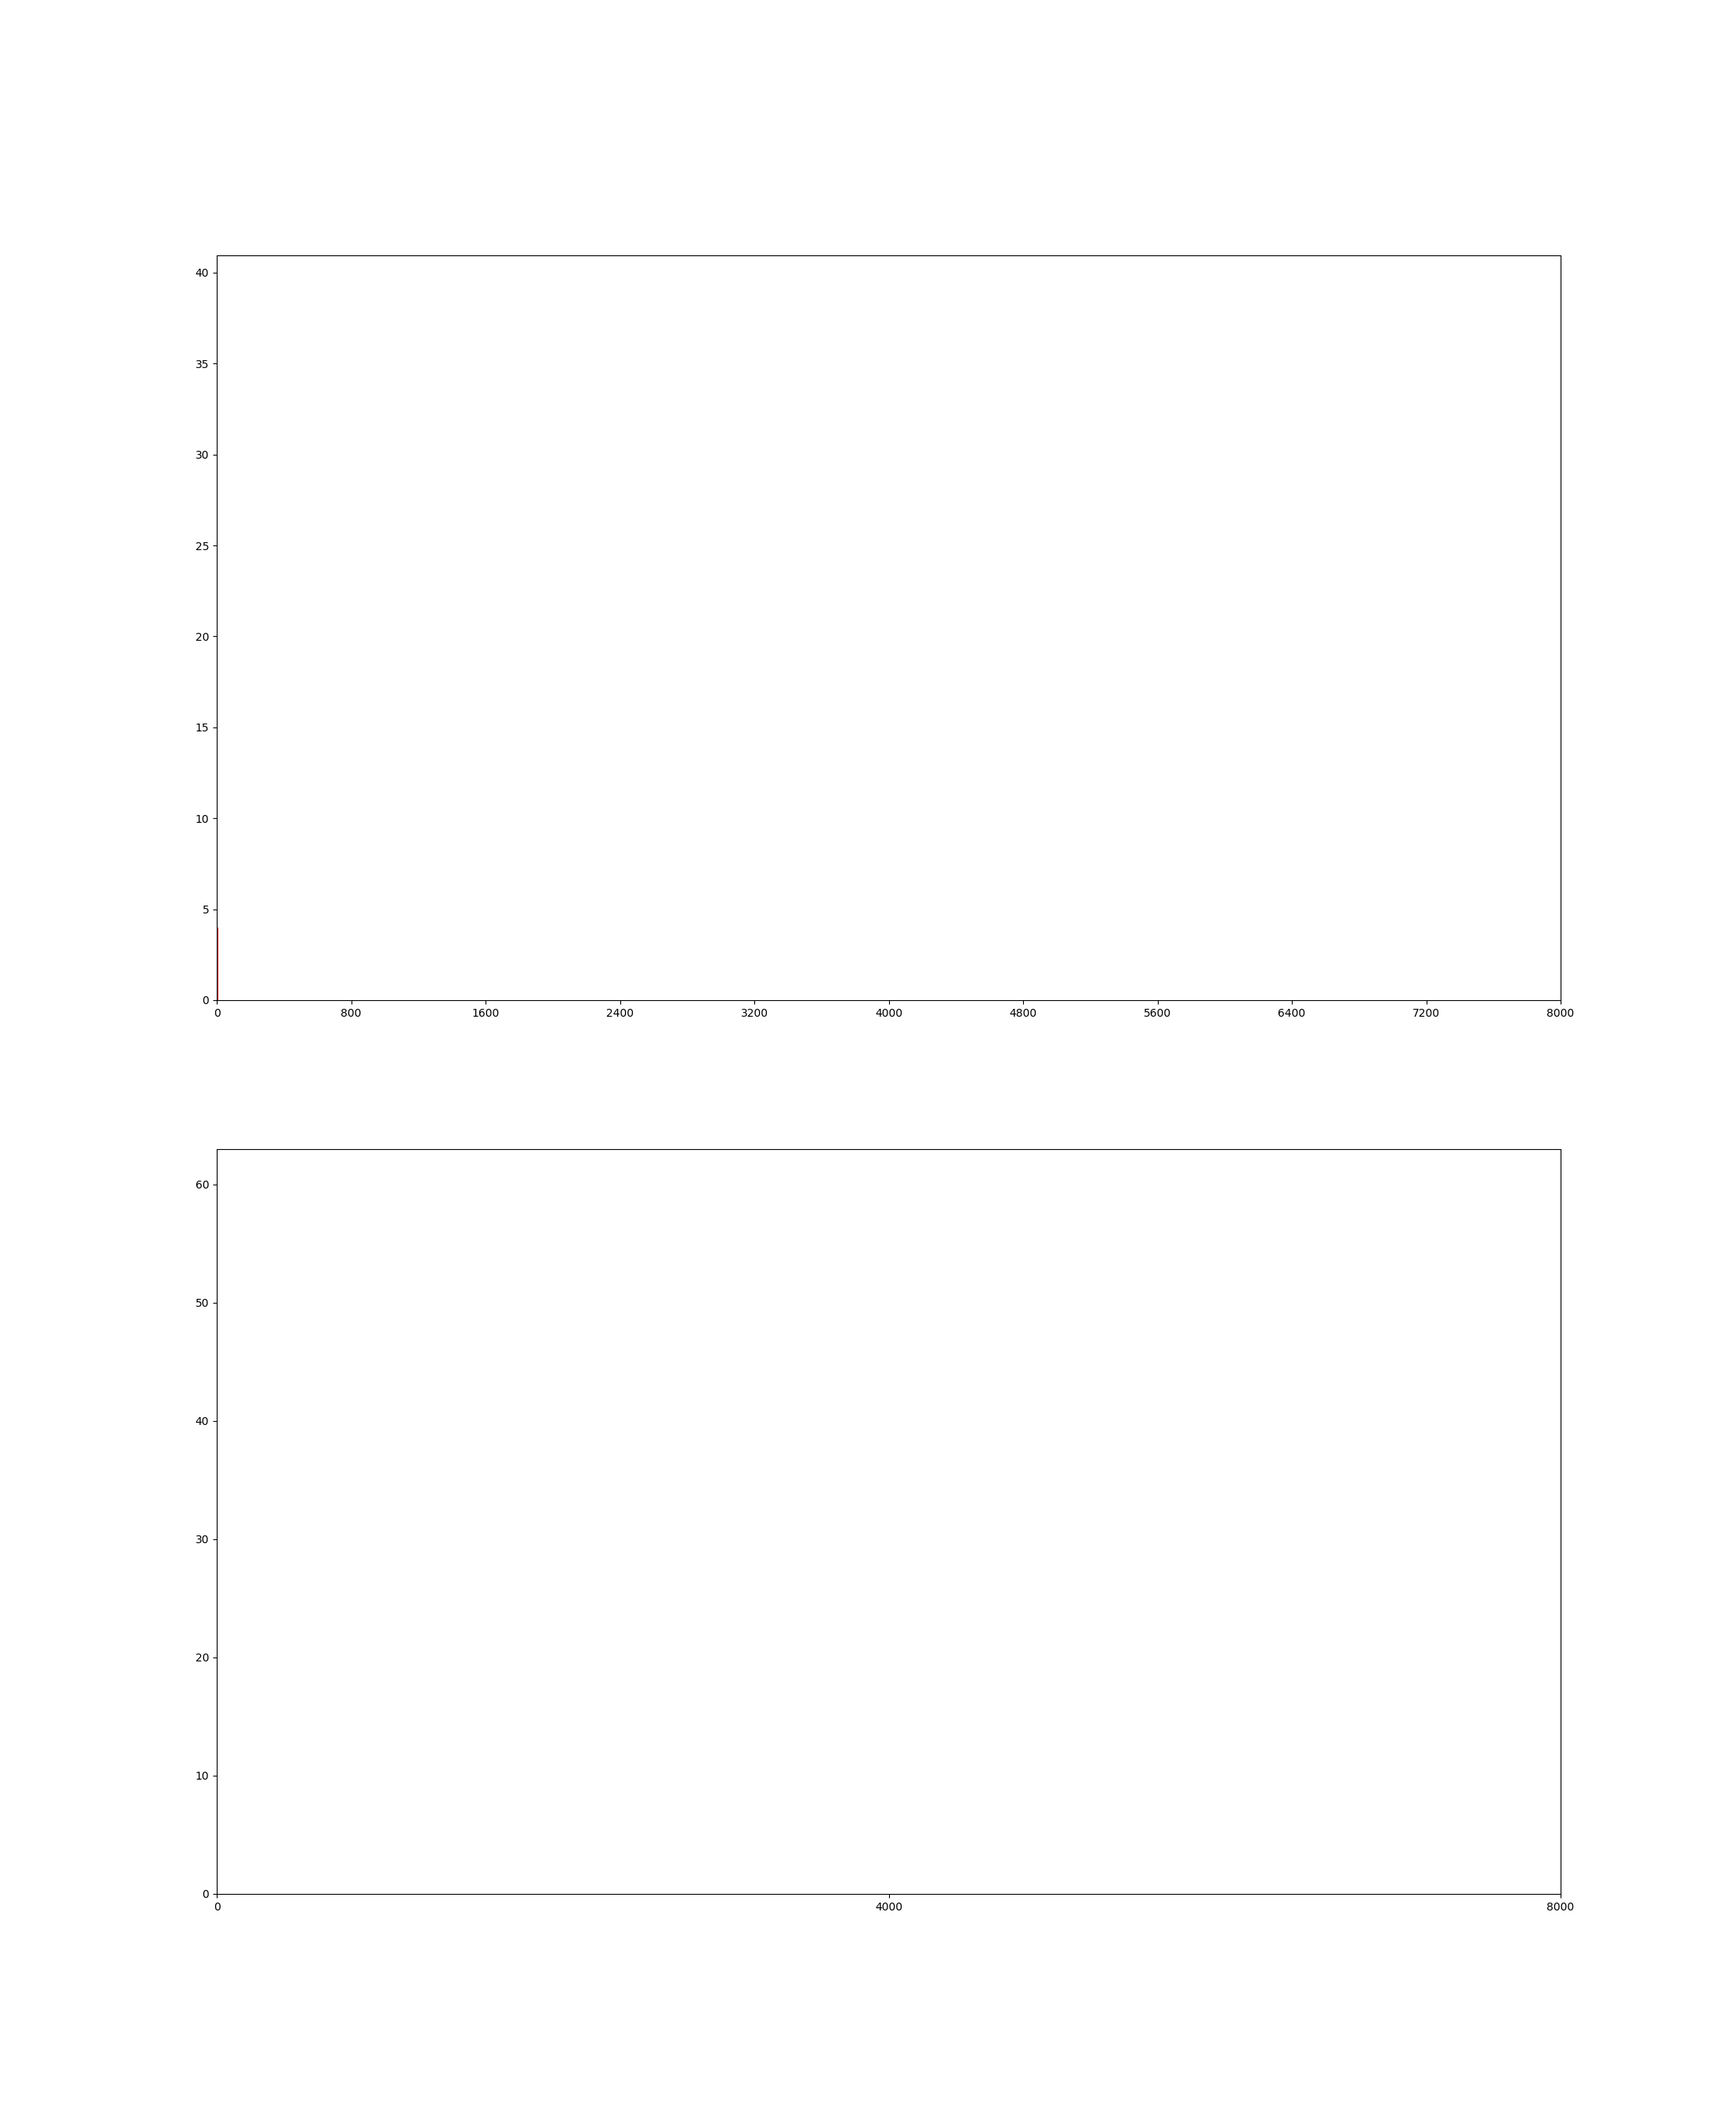
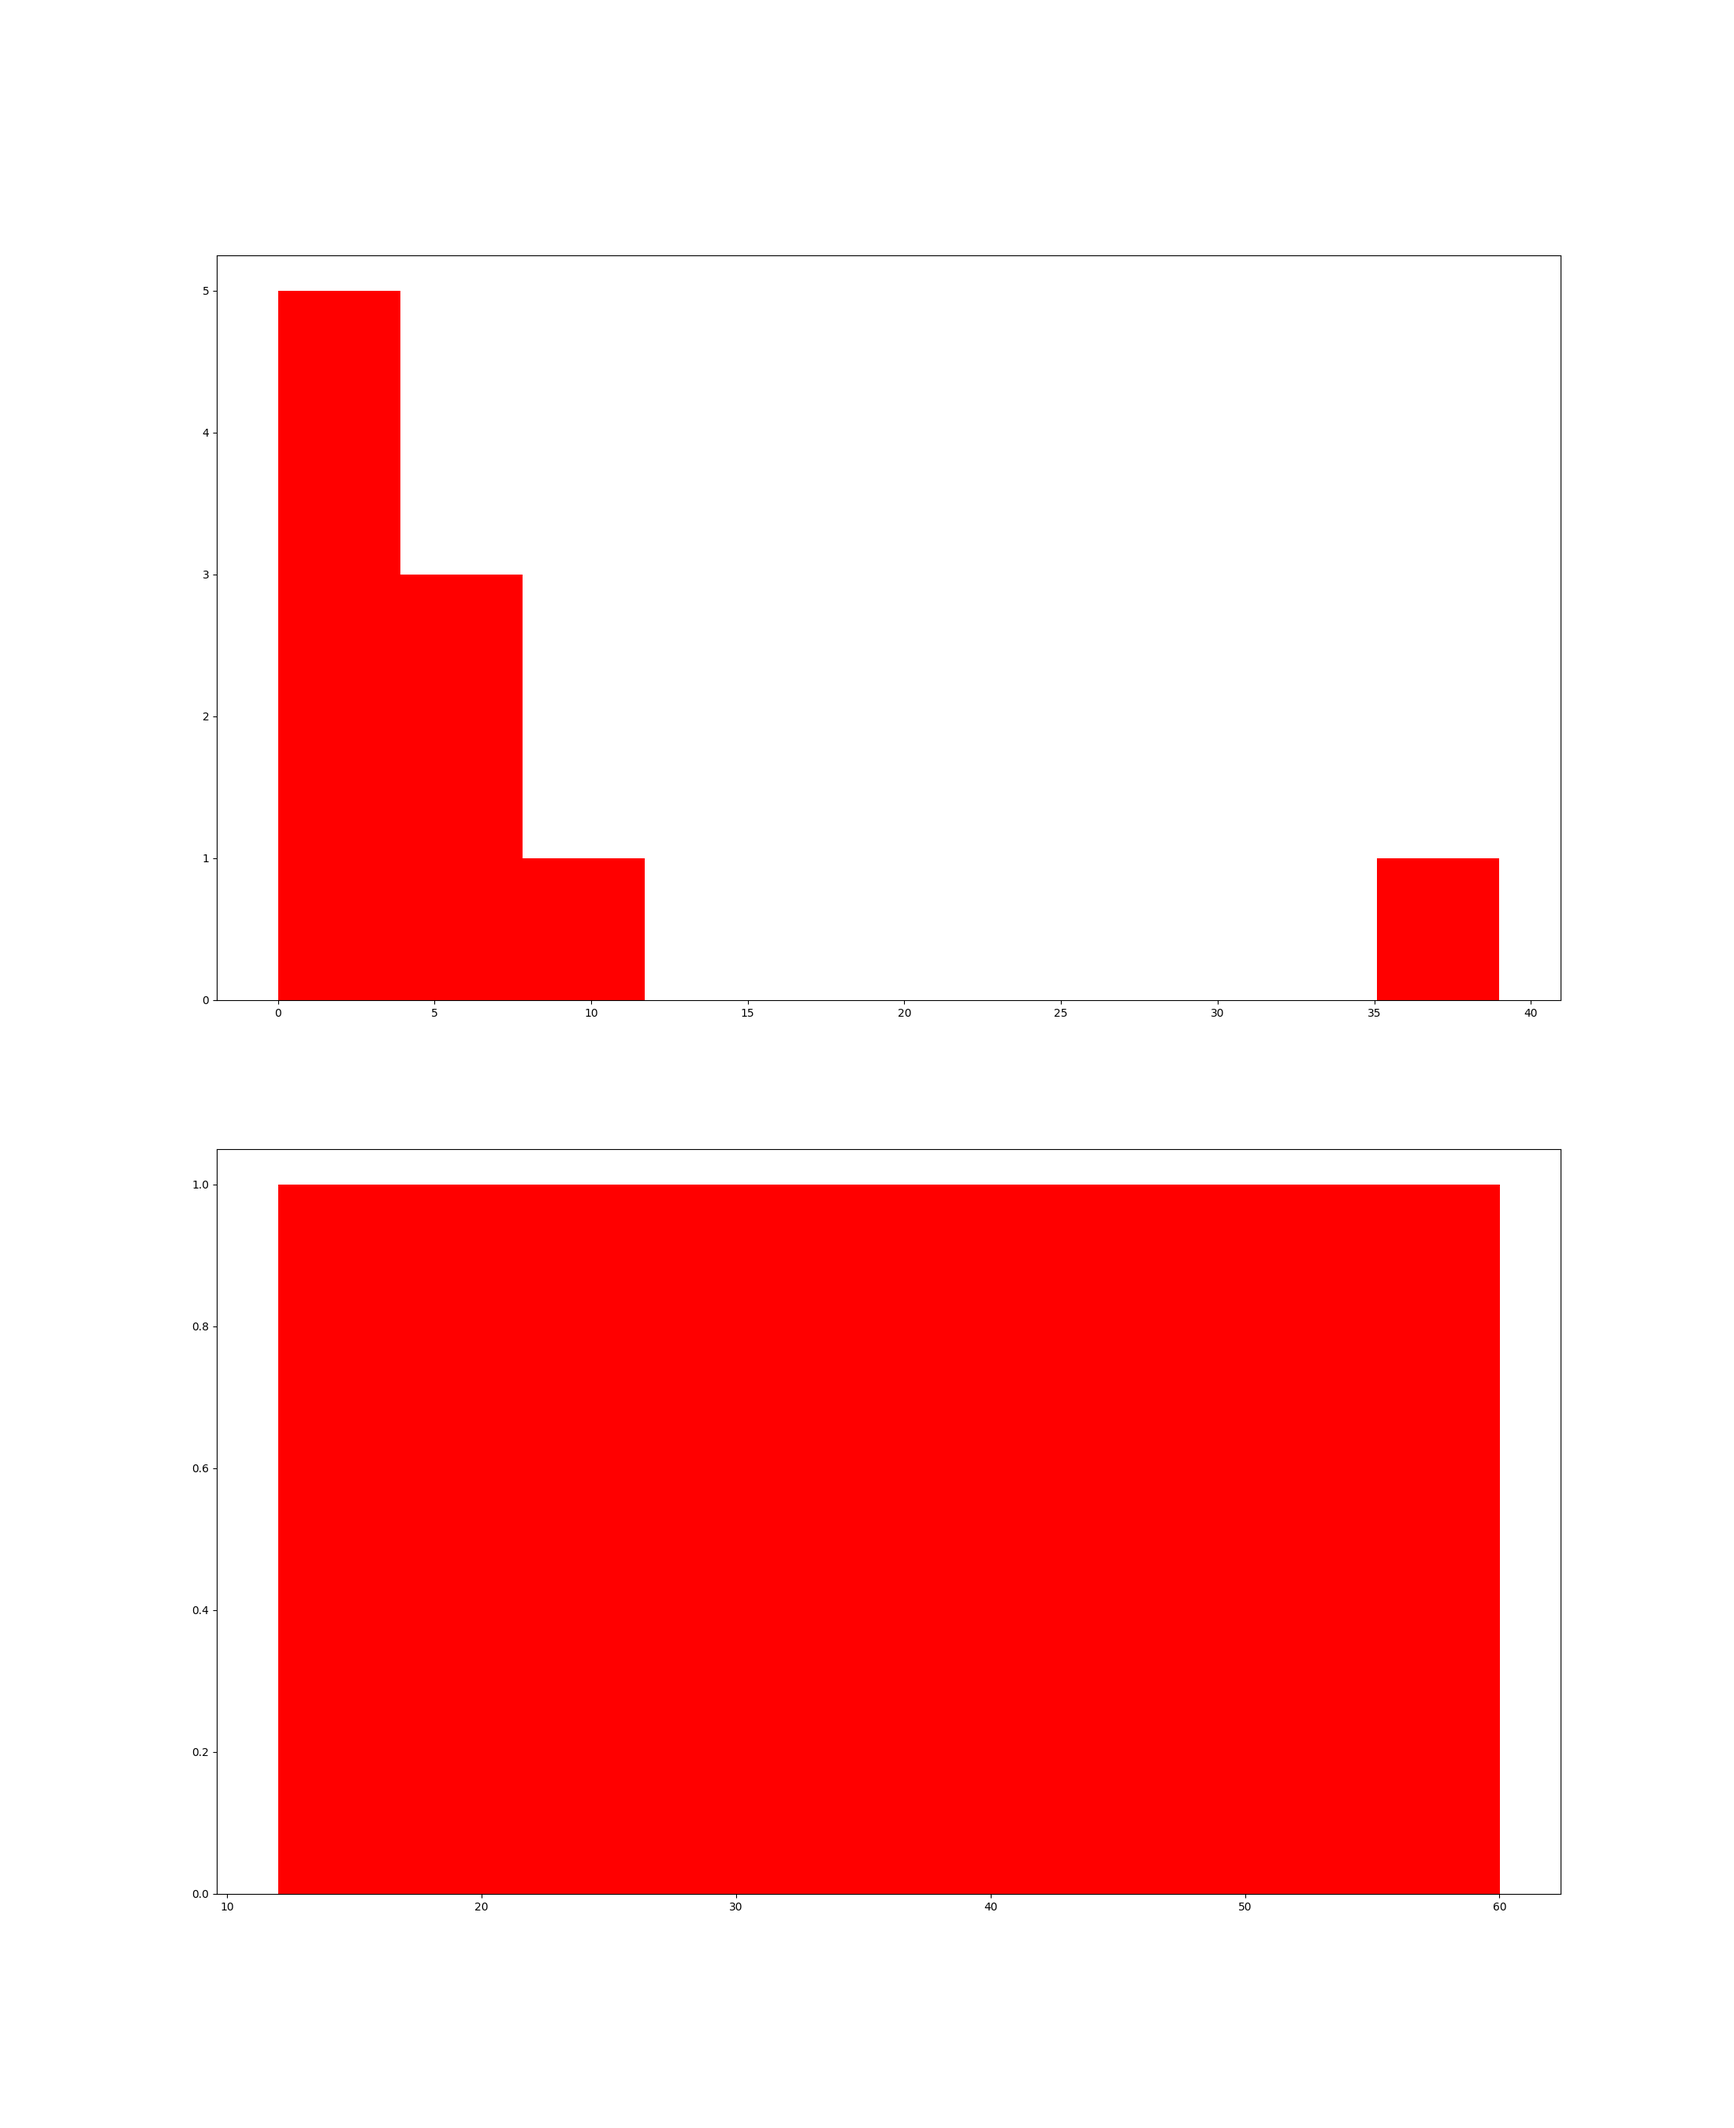
up

Changed region(s): [[0.1545, 0.5289, 0.8655, 0.9022], [0.1545, 0.1244, 0.3709, 0.4978], [0.7727, 0.4044, 0.8655, 0.4978]]

diff --git a/returnnTfNetworkLayerPlotter.py b/returnnTfNetworkLayerPlotter.py
@@ -358,15 +358,15 @@ class Plotter(object):
             axs[barIdx].set_xticks(range(0,maxFreq, 1000))
         else: 
             intervalLen = int((maxFreq+1)/barAccuracy)
-            yAxisValues = self.countElemsInInterval(peaksToPlot, maxFreq, intervalLen)
-            xAxisValues = range(1,len(yAxisValues)+1)
+            values = self.countElemsInInterval(peaksToPlot, maxFreq, intervalLen)
+#            xAxisValues = range(1,len(yAxisValues)+1)
             print('barIdx:{}'.format(barIdx))
             print('filterFunctionIdx:{}'.format(filterFunctionIdx))
-            print(yAxisValues)
+#            print(yAxisValues)
 #            axs[barIdx][filterFunctionIdx].bar(xAxisValues, yAxisValues, color='red')
-            axs[barIdx].bar(xAxisValues, yAxisValues, color='red')
+            axs[barIdx].hist(values, barAccuracy, color='red')
 #            axs[barIdx][filterFunctionIdx].set_xticks(range(0,maxFreq+1, intervalLen))
-            axs[barIdx].set_xticks(range(0,maxFreq+1, intervalLen))
+#            axs[barIdx].set_xticks(range(0,maxFreq+1, intervalLen))
 
     def countElemsInInterval(self, peaksToPlot, maxFreq, intervalLen):
         histogram,_ = np.histogram(peaksToPlot, bins=range(0, maxFreq+1, intervalLen))
